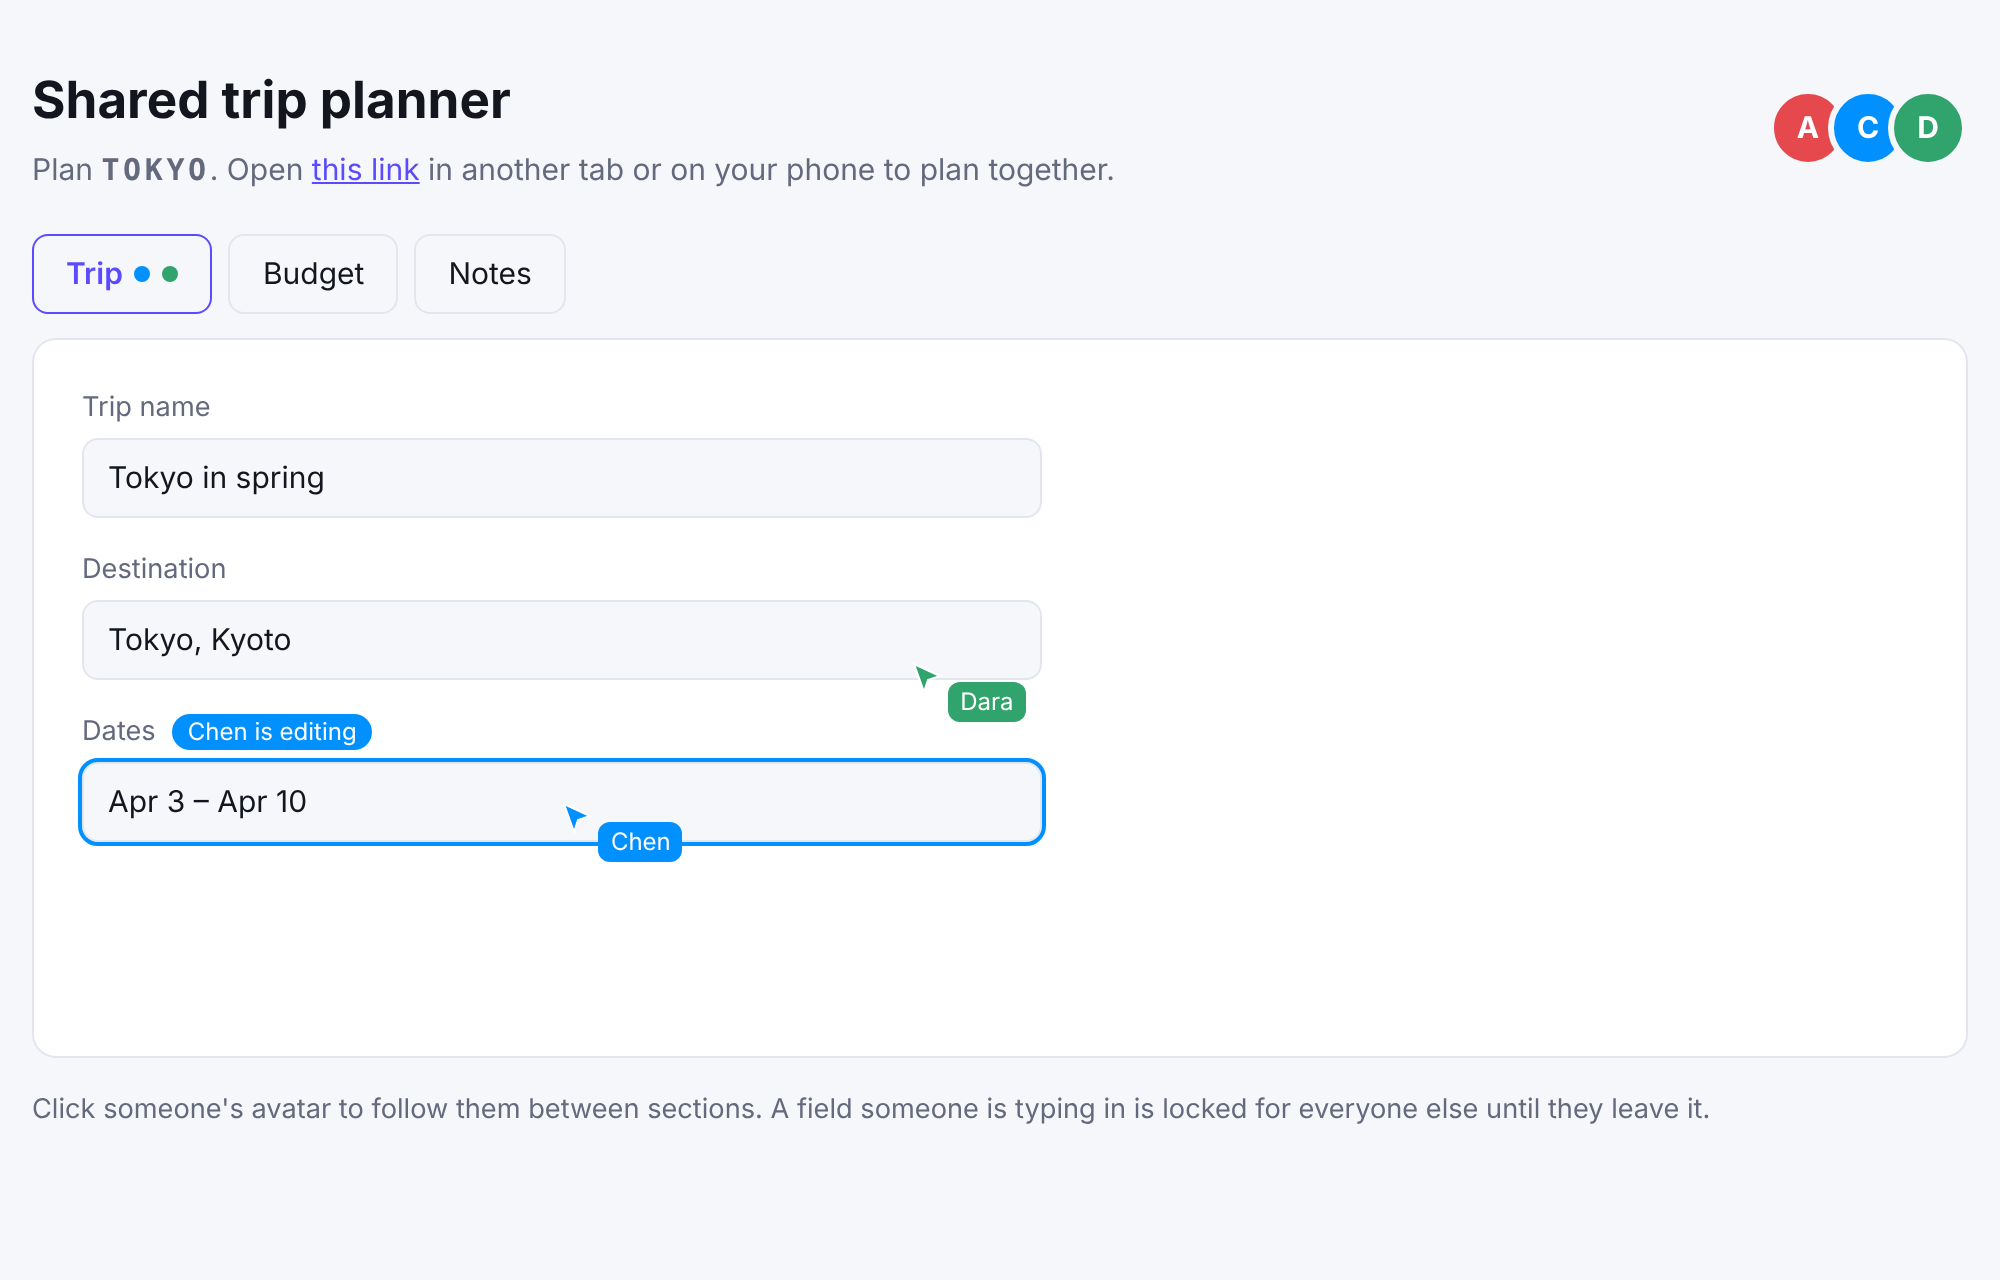
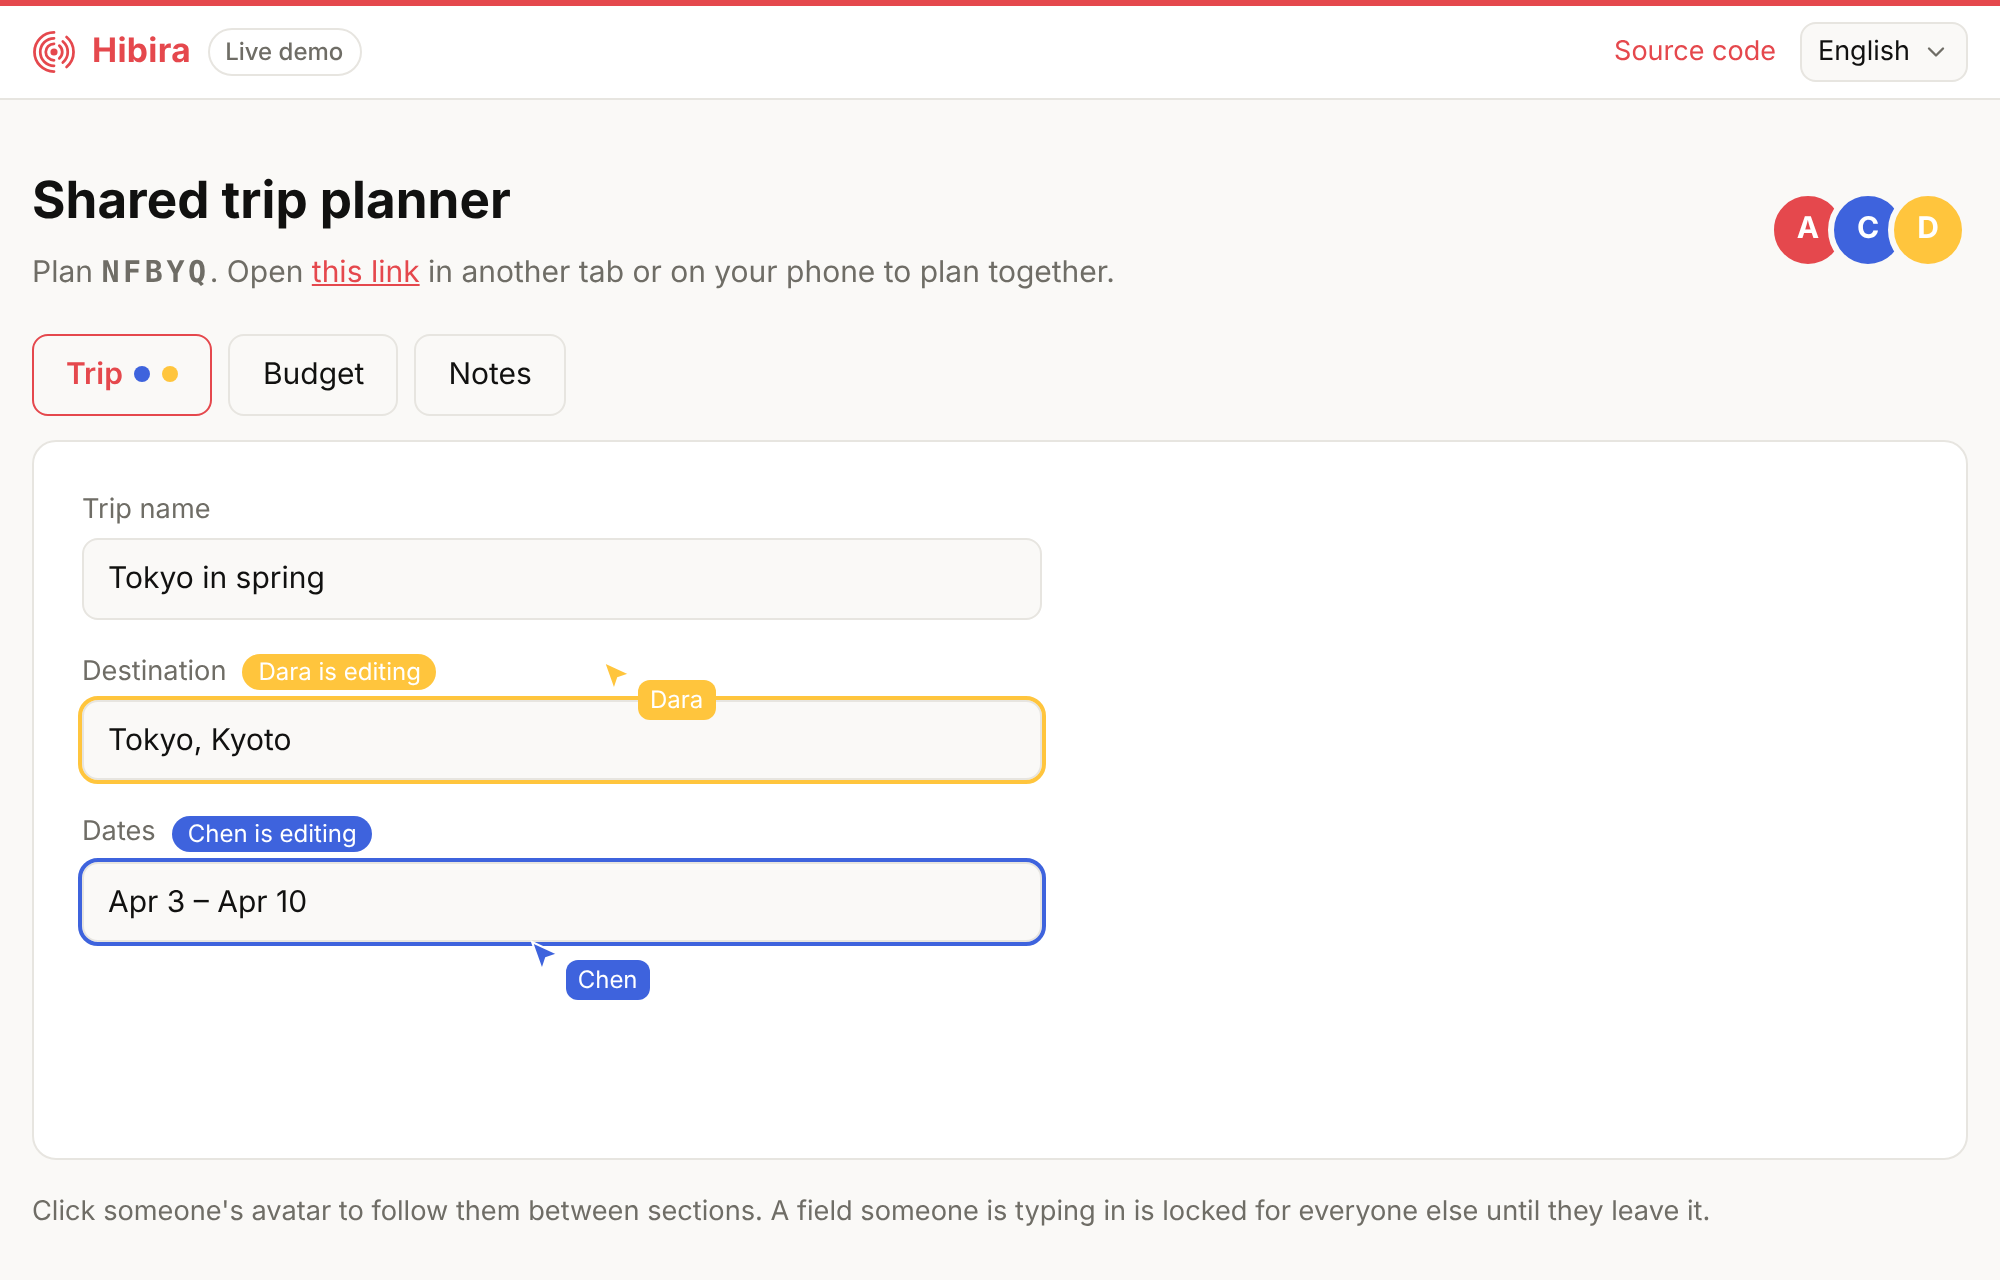
README screenshots from the live demos; fix the SQL demo; move the queue (#44)
- New README screenshots of the seven Next.js demos and the invite queue,
  taken from the hosted copies with two or three browsers in one room, so
  they show the Hibira bar, the current colours and the live service.
  scripts/readme/shoot.cjs takes them again.
- The hosted SQL approvals demo could not load its database: the Pages
  build ran `next build` directly, skipping the prebuild that copies
  sql.js's wasm into public/. The demos now build with `npm run build`.
- The invite queue's address is hibira.io/tools/invite-queue/. Its old
  pages here send every path, query and hash on (instant refresh plus the
  canonical, as GitHub Pages has no 301), and its service worker removes
  itself from installed copies. READMEs link the new address.

Claude-Session: https://claude.ai/code/session_01SHtsCB1pgLC5Q799EmTqhW

diff --git a/nextjs-invite-queue/app/layout.tsx b/nextjs-invite-queue/app/layout.tsx
@@ -8,8 +8,8 @@ import Pwa from '@/components/Pwa';
 import Faq from '@/components/Faq';
 import { FAQ } from '@/lib/faq';
 
-// The hosted copies: demos.hibira.io/examples/invite-queue/ and the one
-// hibira.io serves at /tools/invite-queue/ (DEMO_BASE_PATH picks which).
+// The hosted copy is the one hibira.io serves at /tools/invite-queue/
+// (DEMO_BASE_PATH); another base path is named on demos.hibira.io.
 const BASE = process.env.NEXT_PUBLIC_BASE_PATH ?? '';
 const SITE = BASE.startsWith('/tools/') ? `https://hibira.io${BASE}/` : BASE ? `https://demos.hibira.io${BASE}/` : undefined;
 const TITLE = '排隊領邀請碼 · Invite code queue';

diff --git a/README.md b/README.md
@@ -13,7 +13,7 @@ messaging and push notifications. Each one runs with a free Hibira app
 | [nextjs-dashboard](nextjs-dashboard) | Next.js 16, pusher-js | Server-side triggers, a live dashboard in every open tab, a large presence viewer count | [![Open in StackBlitz](https://developer.stackblitz.com/img/open_in_stackblitz_small.svg)](https://stackblitz.com/github/hibira-io/examples/tree/main/nextjs-dashboard?file=.env.example) [![Deploy with Vercel](https://vercel.com/button)](https://vercel.com/new/clone?repository-url=https%3A%2F%2Fgithub.com%2Fhibira-io%2Fexamples%2Ftree%2Fmain%2Fnextjs-dashboard&integration-ids=oac_BDiFKkVaaw4jAnV7wOcdMBUe&project-name=hibira-dashboard) |
 | [nextjs-games](nextjs-games) | Next.js 16, @hibira-io/lobby | Three small multiplayer games on client events: a shared pixel canvas, draw & guess, Connect Four | [![Open in StackBlitz](https://developer.stackblitz.com/img/open_in_stackblitz_small.svg)](https://stackblitz.com/github/hibira-io/examples/tree/main/nextjs-games?file=.env.example) [![Deploy with Vercel](https://vercel.com/button)](https://vercel.com/new/clone?repository-url=https%3A%2F%2Fgithub.com%2Fhibira-io%2Fexamples%2Ftree%2Fmain%2Fnextjs-games&integration-ids=oac_BDiFKkVaaw4jAnV7wOcdMBUe&project-name=hibira-games) |
 | [nextjs-handoff](nextjs-handoff) | Next.js 16, pusher-js, WebRTC | Phone to desktop: scan a QR code, take a photo on the phone, it lands in the desktop form. End-to-end encrypted, WebRTC with a client-event relay | [![Open in StackBlitz](https://developer.stackblitz.com/img/open_in_stackblitz_small.svg)](https://stackblitz.com/github/hibira-io/examples/tree/main/nextjs-handoff?file=.env.example) [![Deploy with Vercel](https://vercel.com/button)](https://vercel.com/new/clone?repository-url=https%3A%2F%2Fgithub.com%2Fhibira-io%2Fexamples%2Ftree%2Fmain%2Fnextjs-handoff&integration-ids=oac_BDiFKkVaaw4jAnV7wOcdMBUe&project-name=hibira-handoff) |
-| [nextjs-invite-queue](nextjs-invite-queue) | Next.js 16, pusher-js | Queue for invite codes with a chat room: email sign-in, live queue position and online count, each given code offered to the next person in line for 6 hours, private "your turn" events | [demos.hibira.io/examples/invite-queue](https://demos.hibira.io/examples/invite-queue/) |
+| [nextjs-invite-queue](nextjs-invite-queue) | Next.js 16, pusher-js | Queue for invite codes with a chat room: email sign-in, live queue position and online count, each given code offered to the next person in line for 6 hours, private "your turn" events | [hibira.io/tools/invite-queue](https://hibira.io/tools/invite-queue/) |
 | [nextjs-lobby](nextjs-lobby) | Next.js 16, @hibira-io/lobby | A playable multiplayer game: room list, seats, host, ready, chat, game events between browsers | [![Open in StackBlitz](https://developer.stackblitz.com/img/open_in_stackblitz_small.svg)](https://stackblitz.com/github/hibira-io/examples/tree/main/nextjs-lobby?file=.env.example) [![Deploy with Vercel](https://vercel.com/button)](https://vercel.com/new/clone?repository-url=https%3A%2F%2Fgithub.com%2Fhibira-io%2Fexamples%2Ftree%2Fmain%2Fnextjs-lobby&integration-ids=oac_BDiFKkVaaw4jAnV7wOcdMBUe&project-name=hibira-lobby) |
 | [nextjs-spaces](nextjs-spaces) | Next.js 16, @hibira-io/spaces | A shared form: who's here, live cursors, field locks, follow mode | [![Open in StackBlitz](https://developer.stackblitz.com/img/open_in_stackblitz_small.svg)](https://stackblitz.com/github/hibira-io/examples/tree/main/nextjs-spaces?file=.env.example) [![Deploy with Vercel](https://vercel.com/button)](https://vercel.com/new/clone?repository-url=https%3A%2F%2Fgithub.com%2Fhibira-io%2Fexamples%2Ftree%2Fmain%2Fnextjs-spaces&integration-ids=oac_BDiFKkVaaw4jAnV7wOcdMBUe&project-name=hibira-spaces) |
 | [nextjs-sql-approvals](nextjs-sql-approvals) | Next.js 16, @hibira-io/approvals, sql.js | Reads run at once; a database change waits until a supervisor approves its exact SQL, estimated rows and SHA-256 on the Hibira-hosted page, and runs once when the answer arrives on a private channel | [![Open in StackBlitz](https://developer.stackblitz.com/img/open_in_stackblitz_small.svg)](https://stackblitz.com/github/hibira-io/examples/tree/main/nextjs-sql-approvals?file=.env.example) [![Deploy with Vercel](https://vercel.com/button)](https://vercel.com/new/clone?repository-url=https%3A%2F%2Fgithub.com%2Fhibira-io%2Fexamples%2Ftree%2Fmain%2Fnextjs-sql-approvals&integration-ids=oac_BDiFKkVaaw4jAnV7wOcdMBUe&project-name=hibira-sql-approvals) |
@@ -29,7 +29,7 @@ hibira.io.
 ## Live demos
 
 [demos.hibira.io/examples](https://demos.hibira.io/examples/) runs
-nextjs-handoff, nextjs-lobby, nextjs-dashboard, nextjs-spaces, nextjs-games, nextjs-sql-approvals, nextjs-auction, nextjs-invite-queue (at [/invite-queue/](https://demos.hibira.io/examples/invite-queue/)) and phaser-lobby in your browser, in seven languages. Open
+nextjs-handoff, nextjs-lobby, nextjs-dashboard, nextjs-spaces, nextjs-games, nextjs-sql-approvals, nextjs-auction and phaser-lobby in your browser, in seven languages. Open
 a demo in two tabs, or send its link to a friend, to see it sync. They are
 these same apps built as static pages (`.github/workflows/pages.yml`):
 with `NEXT_PUBLIC_DEMO_API` set, `next build` exports only the

diff --git a/nextjs-invite-queue/README.md b/nextjs-invite-queue/README.md
@@ -7,7 +7,7 @@ for the products they want on the get page (`/get`). Each code goes to the next 
 6 hours to take it before it moves on. A chat room sits beside the line,
 and everyone sees the line, the counts and the people online change live.
 
-Live: [demos.hibira.io/examples/invite-queue](https://demos.hibira.io/examples/invite-queue/)
+Live: [hibira.io/tools/invite-queue](https://hibira.io/tools/invite-queue/)
 
 ![Screenshot](screenshot.png)
 
